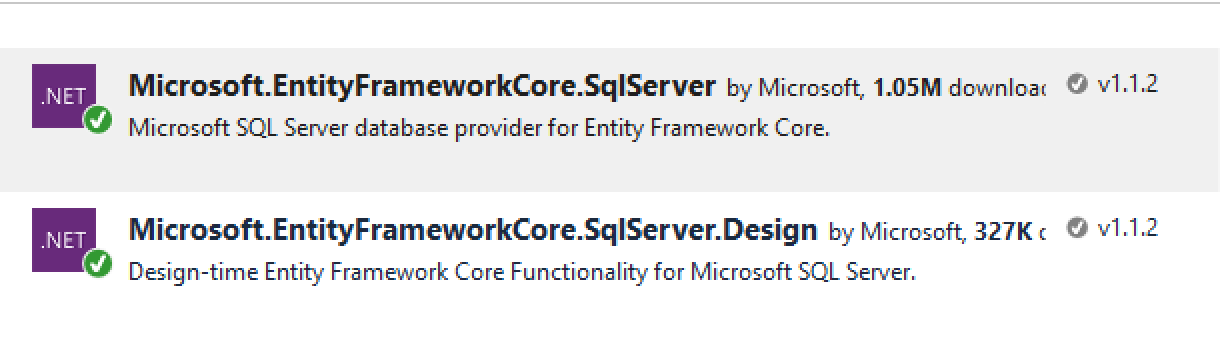
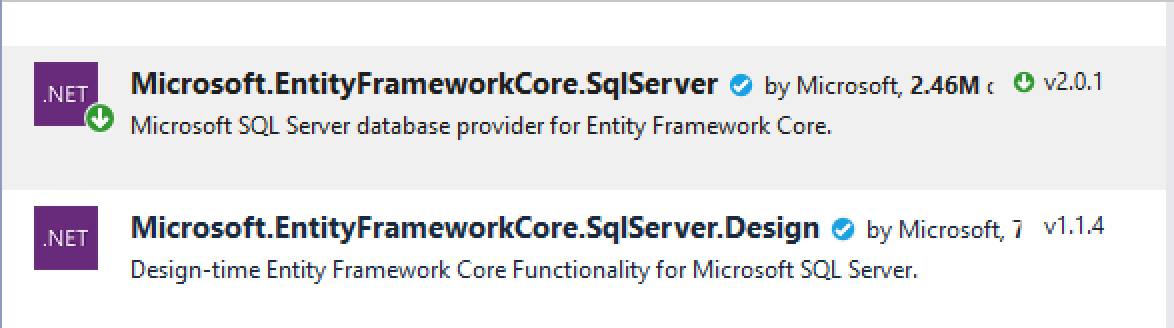
Update instructions for dotnet core v2

Changed region(s): [[0.0, 0.6098, 0.9506, 0.8537], [0.0, 0.1829, 0.9506, 0.4268], [0.0, 0.0, 1.0, 0.0305]]

diff --git a/class-prep/12/setup.md b/class-prep/12/setup.md
@@ -17,17 +17,11 @@ Open the NuGet Package Manager by right-clicking on the project name in the Solu
 
 <img alt="Manage NuGet Packages" src="images/manage-nuget-packages.png" style="width:500px;" />
 
-<aside class="aside-warning" markdown="1">
-You might be tempted carry out the updates listed in the package manager. Resist this temptation!
-</aside>
-
 In the *Browse* tab of the package manager, search for `Microsoft.EntityFrameworkCore.SqlServer`. You will see this package along with one other, `Microsoft.EntityFrameworkCore.SqlServer.Design`, appear in the results.
 
 <img alt="Sql Server Packages" src="images/sqlserver-dependencies.png" style="width:500px;" />
 
-Install **v1.1.1** of both packages by selecting this version from the pane at right. **This is not the default version, so be sure to select it manually**.
-
-<img alt="Sql Server Package Version" src="images/sqlserver-dependencies-version.png" style="width:500px;" />
+The latest version of both packages.
 
 You'll be asked to accept the license agreement for the package, and then you'll see some console output as the packages are installed.
 
@@ -40,8 +34,8 @@ Right-click on the CheeseMVC project in the Solution Explorer, and select *Edit 
 In the file that opens, copy and paste the following lines near the bottom, just inside the closing `</Project>` tag.
 ```xml
 <ItemGroup>
-  <PackageReference Include="Microsoft.EntityFrameworkCore.Tools" Version="1.0.0-msbuild2-final" />
-  <DotNetCliToolReference Include="Microsoft.EntityFrameworkCore.Tools.DotNet" Version="1.0.0-msbuild2-final" />
+  <PackageReference Include="Microsoft.EntityFrameworkCore.Tools" Version="2.0.1" />
+  <DotNetCliToolReference Include="Microsoft.EntityFrameworkCore.Tools.DotNet" Version="2.0.1" />
 </ItemGroup>
 ```
 
